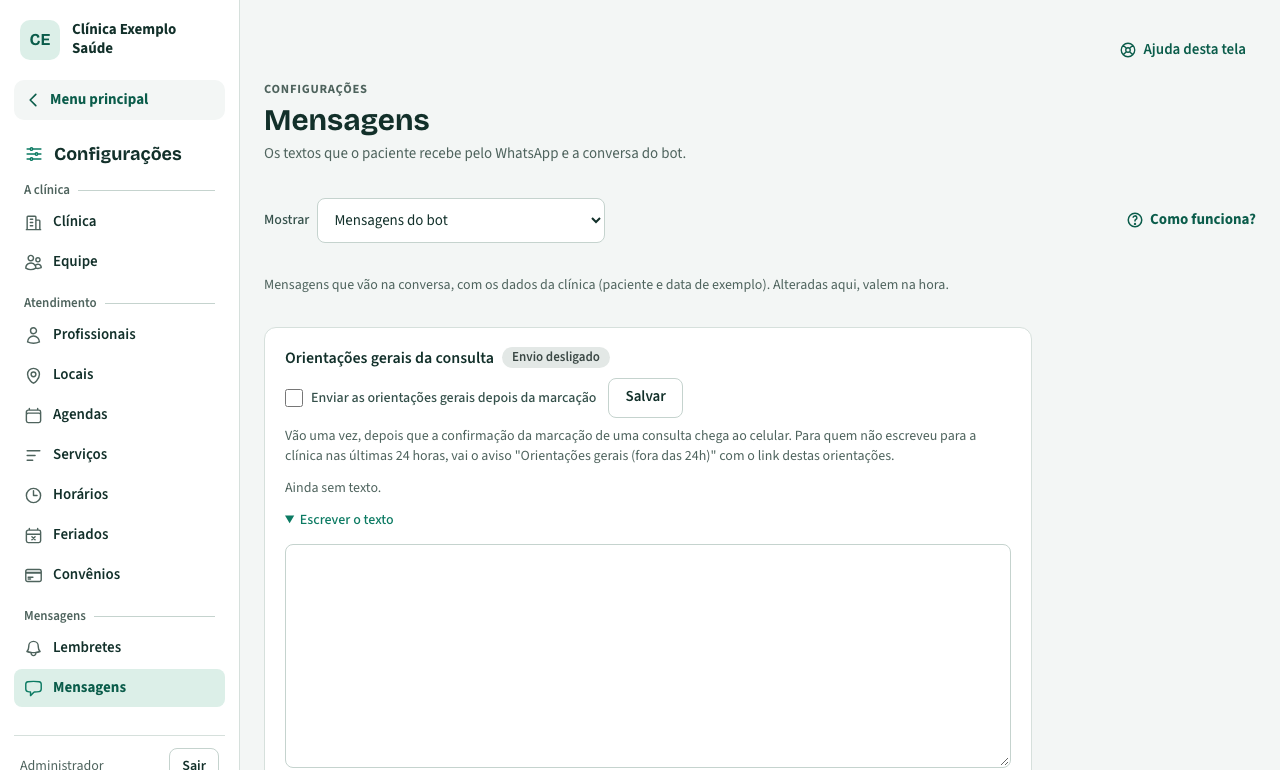
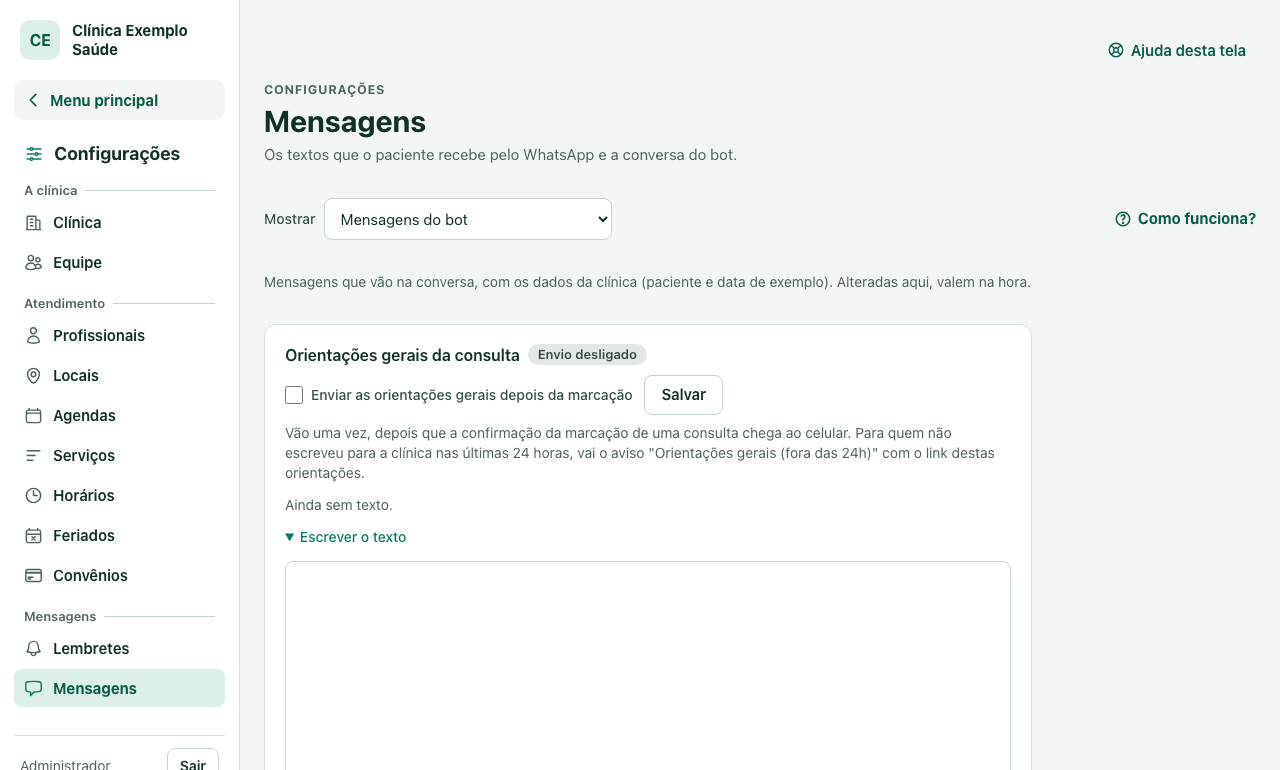
Central de Ajuda: capturas da Central (conversas nova, config-whatsapp, config-mensagens)
atendimento mantida (com a Central ligada a tela abre Conversas); nota no artigo.

diff --git a/src/lib/central/imagens.ts b/src/lib/central/imagens.ts
@@ -16,6 +16,7 @@ export const IMAGENS: Record<string, ArticleImage[]> = {
   "cadastrar-paciente": [shot("paciente-novo", "Formulário de cadastro de paciente, com o botão de cadastrar destacado.", "Pacientes › Novo paciente: paciente, contato e, com Convênios, o plano.")],
   "resumo-do-dia": [shot("resumo-do-dia", "Relatório do dia, com as abas Resumo do dia, Lembretes e A registrar.", "Relatório do dia: o resumo, os lembretes e as consultas a registrar.")],
   "atendimento-humano": [shot("atendimento", "Tela Atendimento, com as conversas que aguardam a clínica.", "Atendimento: conversas em que o bot parou. Use Finalizar atendimento ao terminar.")],
+  "central-de-atendimento": [shot("conversas", "Tela Conversas da Central de atendimento, com a lista de conversas e a conversa aberta.", "Conversas: as conversas do WhatsApp num lugar só; assuma, responda, envie foto ou PDF e finalize.")],
   relacionamento: [shot("relacionamento", "Pacientes › Para contatar, com as listas à esquerda e a escolhida à direita.", "Para contatar: uma lista para cada motivo de contato.")],
   "metricas-visao-geral": [shot("metricas", "Tela de Métricas, com as abas e o seletor de período.", "Métricas: escolha o período e a aba.")],
   "financeiro-quem-paga": [shot("financeiro", "Tela Financeiro, com o filtro Falta CPF destacado.", "Financeiro: os pacientes com o responsável financeiro e o CPF.")],

diff --git a/src/lib/central/artigos/atendimento.ts b/src/lib/central/artigos/atendimento.ts
@@ -72,6 +72,7 @@ export const atendimentoArtigos = [
       "Aguardando a clínica (o paciente espera resposta), a conversa não volta sozinha ao bot.",
       "O número do suporte do RecepClinic nunca passa pelo bot nem entra nesta lista.",
       "Clínica em implantação não recebe nem registra conversas; a lista começa ao ativar.",
+      "Com a Central de atendimento ligada, Atendimento abre a tela Conversas, onde a equipe responde pelo RecepClinic (artigo \"Conversas: a Central de atendimento\").",
     ],
     contextual: ["/admin/atendimento"],
   }),

diff --git a/docs/capturas-pendentes.md b/docs/capturas-pendentes.md
@@ -9,7 +9,4 @@ a captura e o motivo, avisar o cliente no fim da etapa e esperar a autorização
 
 ## Pendentes
 
-- `config-whatsapp` — cartões "Custo da Meta" e "Central de atendimento" (CU4, branch `central-atendimento`; recapturar com a Central pronta) (05/11/2026)
-- `config-mensagens` — linha nova "Retomar conversa" nas mensagens da Meta, com a Central liberada (CN4b, branch `central-atendimento`; recapturar com a Central pronta) (05/11/2026)
-- `conversas` (nova) — tela Conversas, artigo `central-de-atendimento`: acrescentar a linha em `scripts/capturas-ajuda.mjs` e em `imagens.ts` ao capturar (CN9, branch `central-atendimento`; recapturar com a Central pronta) (05/11/2026)
-- `atendimento` — com a Central ligada, Atendimento abre Conversas; a captura atual (sem a Central) segue valendo para quem não tem a Central (CN3a; conferir o texto do artigo) (05/11/2026)
+(nenhuma)
